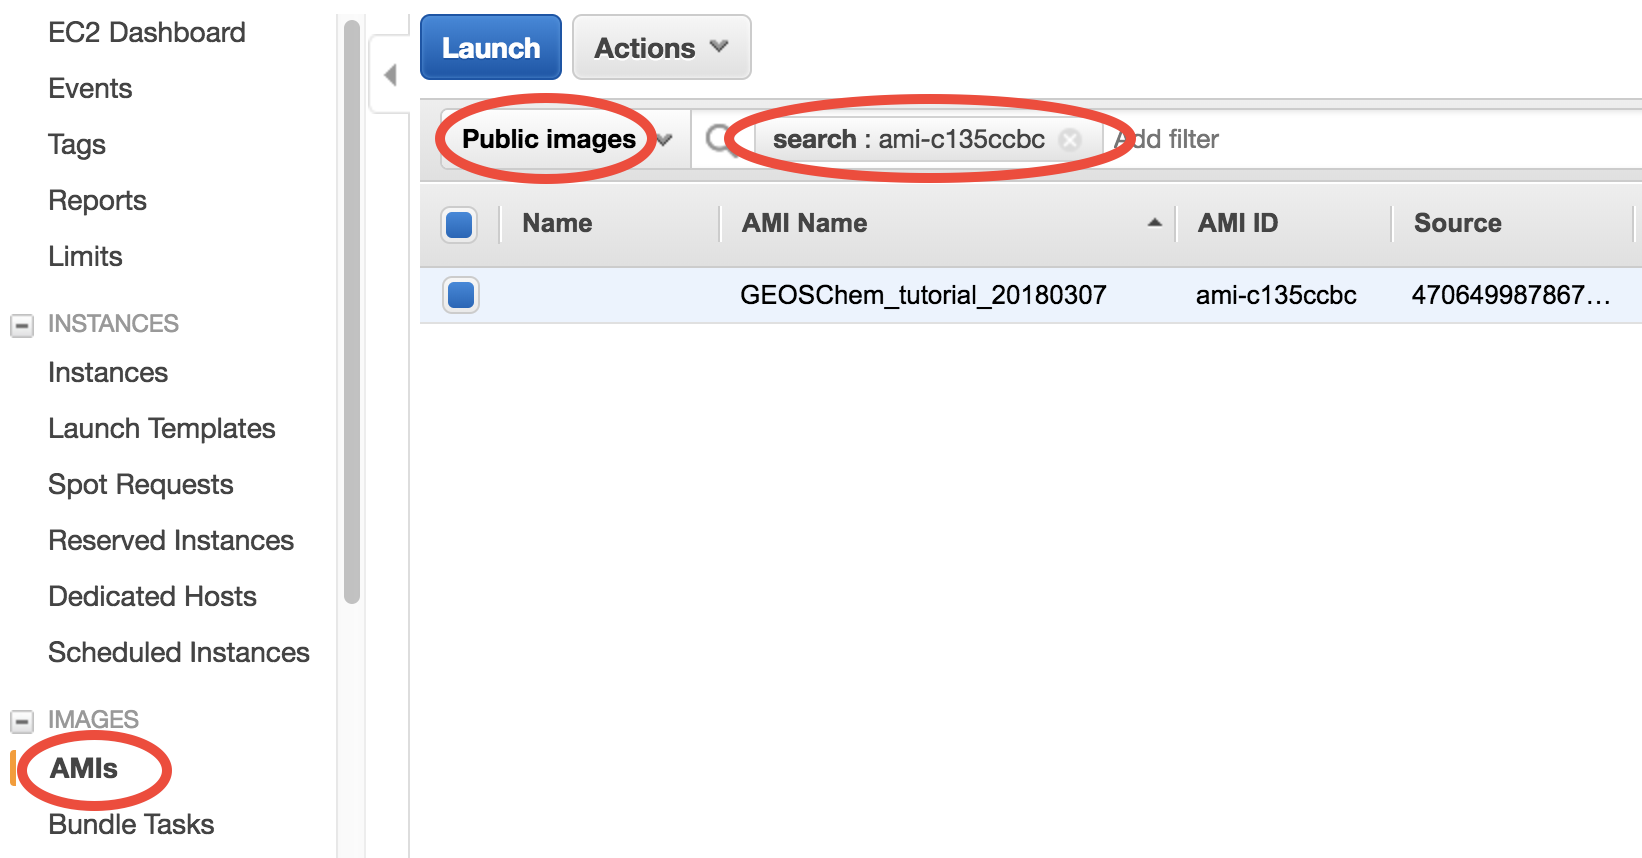
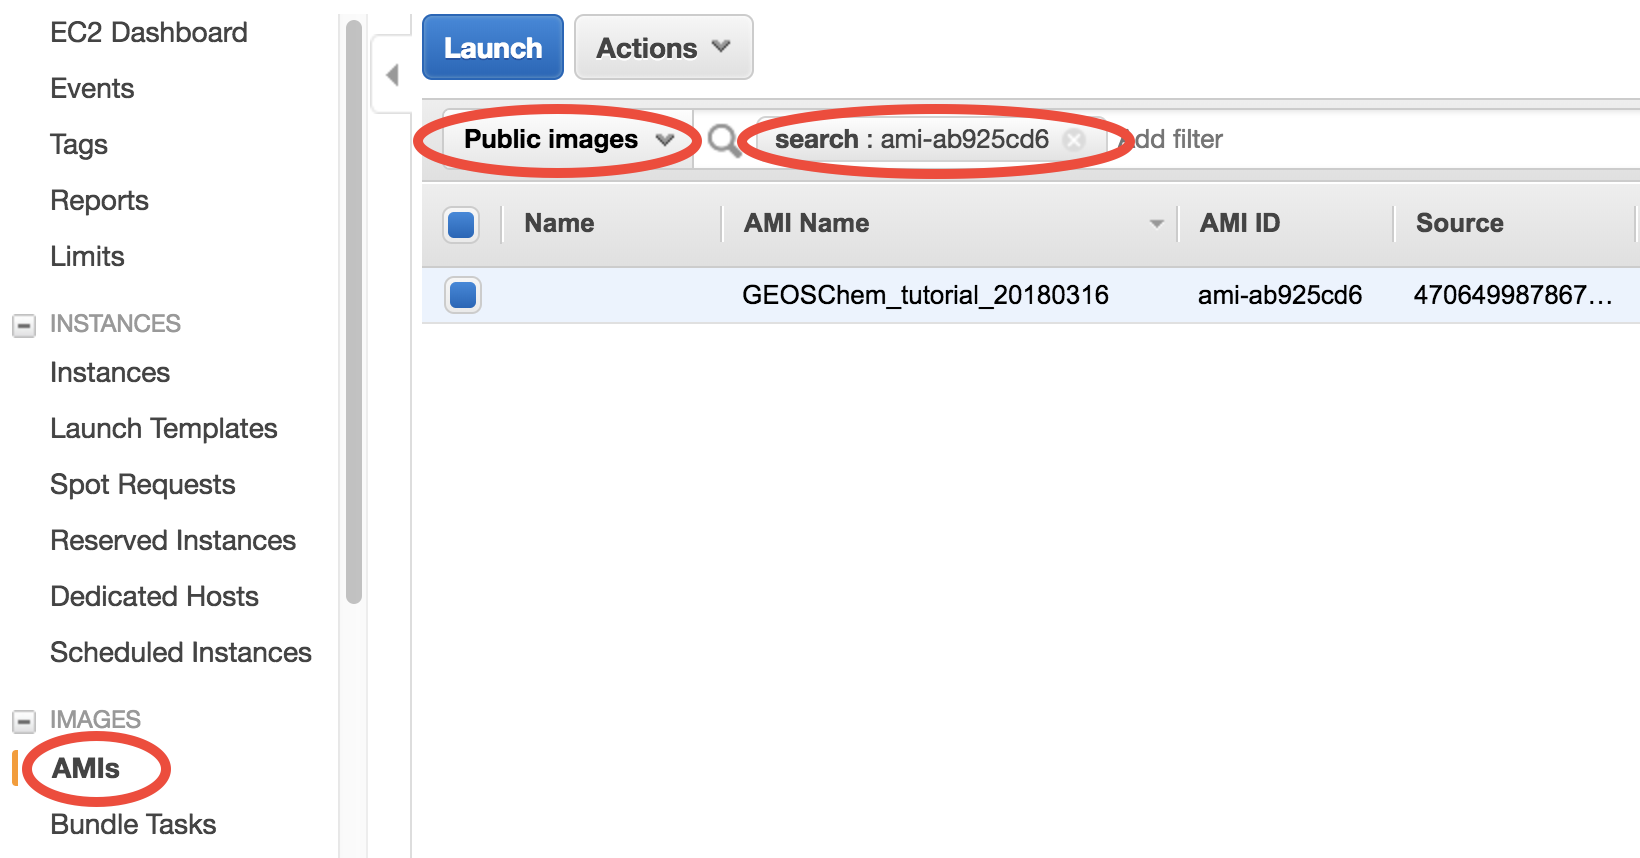
Major update for public release.
1. Update tutorial AMI
- use tutorial folder
- update Python env to fix bpch error
- add emacs editor
2. Add more s3 cp scripts
3. Add GEOS-Chem version note
4. Add xboch and xesmf note

diff --git a/doc/source/chapter02_beginner-tutorial/quick-start.rst b/doc/source/chapter02_beginner-tutorial/quick-start.rst
@@ -33,7 +33,7 @@ In the EC2 console, make sure you are in the **US East (N. Virginia)** region as
 .. figure:: img/region_list.png
   :width: 300 px
 
-In the EC2 console, click on "AMI" (Amazon Machine Image) under "IMAGES" on the left navigation bar. Then select "Public images" and search for **ami-c135ccbc** or **GEOSChem_tutorial_20180307** – that's the system with GEOS-Chem installed. Select it and click on "Launch".
+In the EC2 console, click on "AMI" (Amazon Machine Image) under "IMAGES" on the left navigation bar. Then select "Public images" and search for **ami-ab925cd6** or **GEOSChem_tutorial_20180316** – that's the system with GEOS-Chem installed. Select it and click on "Launch".
 
 .. figure:: img/search_ami.png
 
@@ -94,7 +94,7 @@ That's a system with GEOS-Chem already built!
 
 Go to the pre-generated run directory::
   
-  $ cd geosfp_4x5_standard
+  $ cd ~/tutorial/geosfp_4x5_standard
 
 Just run the pre-compiled the model by::
   
@@ -102,7 +102,7 @@ Just run the pre-compiled the model by::
 
 Or you can re-compile the model on your own::
 
-  $ make clean
+  $ make realclean
   $ make -j4 mpbuild NC_DIAG=y BPCH_DIAG=n TIMERS=1
 
 Congratulations! You’ve just done a GEOS-Chem simulation on the cloud, without spending any time on setting up your own server, configuring software environment, and preparing model input data!
@@ -112,12 +112,14 @@ The default simulation length is only 20 minutes, for demonstration purpose. The
 .. note::
   The first simulation on a new server will have slow I/O and library loading because the disk needs "warm-up". Subsequent simulations will be much faster.
 
+Note that this system is a **general environment** for GEOS-Chem, **not just a specific version of the model**. This pre-configured run directory in the "tutorial" folder is only for demonstration purpose. It uses `v11-02d <http://wiki.seas.harvard.edu/geos-chem/index.php/GEOS-Chem_v11-02#v11-02d>`_, which might not be the version you want for a serious scientific analysis. You can easily :doc:`switch to other versions <../chapter06_appendix/gc-version>`.
+
 Step 4: Analyze output data with Python (Optional)
 --------------------------------------------------
 
-If you wait for the simulation to finish (takes 5~10 min), it will produce `NetCDF diagnostics <http://wiki.seas.harvard.edu/geos-chem/index.php/List_of_diagnostics_archived_to_netCDF_format>`_ called ``GEOSChem.inst.20130701.nc4``. There is also a pre-generated ``GEOSChem.inst.20130701_backup.nc4`` ready for you to analyze::
+If you wait for the simulation to finish (takes 5~10 min), it will produce `NetCDF diagnostics <http://wiki.seas.harvard.edu/geos-chem/index.php/List_of_diagnostics_archived_to_netCDF_format>`_ called ``GEOSChem.inst.20130701.nc4``. There is also a pre-generated ``GEOSChem.inst.20130701_backup.nc4`` in the run directory, ready for you to analyze::
 
-  ubuntu@ip-172-31-36-170:~/geosfp_4x5_standard$ ncdump -h GEOSChem.inst.20130701_backup.nc4
+  $ ncdump -h GEOSChem.inst.20130701_backup.nc4
   netcdf GEOSChem.inst.20130701_backup {
   dimensions:
   	time = UNLIMITED ; // (1 currently)
@@ -133,9 +135,12 @@ If you wait for the simulation to finish (takes 5~10 min), it will produce `NetC
   		time:axis = "T" ;
 
 `Anaconda Python <https://www.anaconda.com/>`_ and `xarray <http://xarray.pydata.org>`_ are already installed on the server for analyzing all kinds of NetCDF files. If you are not familiar with Python and xarray, checkout my tutorial on 
-`xarray for GEOS-Chem <http://gcpy-demo.readthedocs.io>`_. You can simply use ``ipython`` from the command line::
-  
-  ubuntu@ip-172-31-36-170:~/geosfp_4x5_standard$ ipython
+`xarray for GEOS-Chem <http://gcpy-demo.readthedocs.io>`_. 
+
+Activate the pre-installed `geoscientific Python environment <https://github.com/JiaweiZhuang/cloud_GC/blob/master/build_scripts/python/geo.yml>`_ by ``source activate geo`` (it is generally a bad idea to directly install things into the root Python environment), and then start ``ipython`` from the command line::
+
+  $ source activate geo  # I also set a `act geo` alias
+  $ ipython
   Python 3.6.4 |Anaconda, Inc.| (default, Jan 16 2018, 18:10:19)
   Type 'copyright', 'credits' or 'license' for more information
   IPython 6.2.1 -- An enhanced Interactive Python. Type '?' for help.
@@ -163,7 +168,7 @@ To use Jupyter on remote servers, re-login to the server with port-forwarding op
   
 Then simply run ``jupyter notebook --NotebookApp.token='' --no-browser --port=8999``::
 
-  ubuntu@ip-172-31-36-170:~$ jupyter notebook --NotebookApp.token='' --no-browser --port=8999
+  $ jupyter notebook --NotebookApp.token='' --no-browser --port=8999
   [I 21:11:41.503 NotebookApp] Writing notebook server cookie secret to /run/user/1000/jupyter/notebook_cookie_secret
   [W 21:11:41.986 NotebookApp] All authentication is disabled.  Anyone who can connect to this server will be able to run code.
   [I 21:11:42.046 NotebookApp] Serving notebooks from local directory: /home/ubuntu
@@ -172,10 +177,20 @@ Then simply run ``jupyter notebook --NotebookApp.token='' --no-browser --port=89
   [I 21:11:42.046 NotebookApp] http://localhost:8999/
   [I 21:11:42.046 NotebookApp] Use Control-C to stop this server and shut down all kernels (twice to skip confirmation).
 
-Visit ``http://localhost:8999/`` in your browser, you should see a Jupyter environment just like on local machines. The server contains an :doc:`example notebook <../chapter06_appendix/sample-python-code>` ``python_example/plot_GC_data.ipynb`` that you can just execute. You can also use Jupyter as a graphical text editor on remote servers. Jupyter also allows you to download/upload data without using ``scp``.
+Visit ``http://localhost:8999/`` in your browser, you should see a Jupyter environment just like on local machines. The server contains an :doc:`example notebook <../chapter06_appendix/sample-python-code>` that you can just execute. It is located at::
+
+  ~/tutorial/python_example/plot_GC_data.ipynb
+
+Besides being a data analysis environment, Jupyter can also be used as a graphical text editor on remote servers so you don't have to use ``vim``/``emacs``/``nano``. The Jupyter console also allows you to download/upload data without using ``scp``.
 
 .. note::
-  There are many ways to use Jupyter on remote servers. Port-forwarding is the easiest way, and is the only way that also works on local HPC clusters (which has much stricter firewalls than cloud platforms). The port number 8999 is just my random choice, to distinguish from the default port number 8888 for local Jupyter. You can use whatever number you like as long as it doesn't conflict with `existing port numbers <https://en.wikipedia.org/wiki/Port_(computer_networking)#Common_port_numbers>`_.
+  There are many ways to connect to Jupyter on remote servers. Port-forwarding is the easiest way, and is the only way that also works on local HPC clusters (which has much stricter firewalls than cloud platforms). The port number 8999 is just my random choice, to distinguish from the default port number 8888 for local Jupyter. You can use whatever number you like as long as it doesn't conflict with `existing port numbers <https://en.wikipedia.org/wiki/Port_(computer_networking)#Common_port_numbers>`_.
+
+We encourage users to try the new NetCDF diagnostics, but you can still use the old BPCH diagnostics if you want to. Just compile with ``NC_DIAG=n BPCH_DIAG=y`` instead. The Python package `xbpch <http://xbpch.readthedocs.io>`_ can read BPCH data into xarray format, so you can use very similar code for NetCDF and BPCH output. xbpch is also pre-installed in the ``geo`` environment. 
+
+My `xESMF <http://xesmf.readthedocs.io>`_ package is also pre-installed on the server, which can fulfill all horizontal regridding needs for GEOS-Chem data (and most of Earth science data). It should be much easier to use and orders of magnitude faster than the regridding routines in IDL/gamap.
+
+Also, nothing prevents you from downloading the output data and using old tools like IDL & MATLAB to analyze them, but we highly encourage you to switch to the open-source Python/Jupyter/xarray ecosystem. It will vastly improve user experience and working efficiency, and also help open science and reproducible research.
 
 Step 5: Shut down the server (Very important!!) 
 -----------------------------------------------

diff --git a/doc/source/chapter02_beginner-tutorial/use-s3.rst b/doc/source/chapter02_beginner-tutorial/use-s3.rst
@@ -103,7 +103,7 @@ You can explore sub-directories by, for example::
   $ aws s3 ls s3://nasanex/NEX-GDDP/BCSD/rcp85/day/atmos/tasmax/r1i1p1/v1.0/
   
 Or just get down to one of the the lowest level folders ::
-  
+
   $ aws s3 ls --summarize --human-readable s3://nasanex/NEX-GDDP/BCSD/rcp85/day/atmos/tasmax/r1i1p1/v1.0/
   ...
   2015-09-25 21:07:06    8.3 KiB tasmax_day_BCSD_rcp85_r1i1p1_inmcm4_2099.json
@@ -115,7 +115,7 @@ Or just get down to one of the the lowest level folders ::
      Total Size: 1.4 TiB
 
 The ``--summarize --human-readable`` options print the total size in human-readable formats (like the normal Linux command ``du -sh``) As you see, that subfolder has 1.4 TB of data. Just get one file to play with::
-  
+
   $ aws s3 cp s3://nasanex/NEX-GDDP/BCSD/rcp85/day/atmos/tasmax/r1i1p1/v1.0/tasmax_day_BCSD_rcp85_r1i1p1_inmcm4_2100.nc ./
   download: s3://nasanex/NEX-GDDP/BCSD/rcp85/day/atmos/tasmax/r1i1p1/v1.0/tasmax_day_BCSD_rcp85_r1i1p1_inmcm4_2100.nc to ./tasmax_day_BCSD_rcp85_r1i1p1_inmcm4_2100.nc
 
@@ -141,16 +141,12 @@ Here's an :doc:`example notebook <../chapter06_appendix/plot_NASANEX>` to plot t
 
 Congrats! You know how to access and analyze public datasets on AWS. Accessing GEOS-Chem's input data repository will be exactly the same.
 
-.. note::
-  
-  Get tired of lengthy S3 commands? The `s3fs-fuse <https://github.com/s3fs-fuse/s3fs-fuse>`_ tool can make S3 buckets and objects behave just like normal directories and files on disk. We will mention it in advanced tutorials.
-
 .. _gcdata-bucket-label:
 
 Access GEOS-Chem input data repository in S3
 --------------------------------------------
 
-::
+List out bucket by::
   
   $ aws s3 ls --request-payer=requester s3://gcgrid/
                              PRE BPCH_RESTARTS/
@@ -172,4 +168,44 @@ Access GEOS-Chem input data repository in S3
   
 GEOS-Chem input data bucket uses `requester-pay mode <https://docs.aws.amazon.com/AmazonS3/latest/dev/RequesterPaysBuckets.html>`_. Transferring data from S3 to EC2 (in the same region) has no cost. But you do need to pay for the :ref:`egress fee <data-egress-label>` it you download data to local machines.
 
-The tutorial AMI only has 1-month GEOS-FP metfield. You can get other metfields from that S3 bucket, to support simulations with any configurations.
+The tutorial AMI only has 4x5 GEOS-FP metfield for 1-month (2013/07). You can get other metfields from that S3 bucket, to support simulations with any configurations.
+
+For example, download the 4x5 GEOS-FP data over the next month (2013/08)
+
+::
+  
+  $ aws s3 cp --request-payer=requester --recursive \
+    s3://gcgrid/GEOS_4x5/GEOS_FP/2013/08/ \
+    ~/gcdata/ExtData/GEOS_4x5/GEOS_FP/2013/08/
+
+  download: s3://gcgrid/GEOS_4x5/GEOS_FP/2013/08/GEOSFP.20130801.A1.4x5.nc to gcdata/ExtData/GEOS_4x5/GEOS_FP/2013/08/GEOSFP.20130801.A1.4x5.nc
+  download: s3://gcgrid/GEOS_4x5/GEOS_FP/2013/08/GEOSFP.20130801.A3mstC.4x5.nc to gcdata/ExtData/GEOS_4x5/GEOS_FP/2013/08/GEOSFP.20130801.A3mstC.4x5.nc
+  ...
+
+Downloading this ~2.5 GB data should just take 10~20s.
+
+To download more months (but not the entire year), consider simple bash "for" loop::
+
+  for month in 09 10
+  do
+  aws s3 cp --request-payer=requester --recursive \
+    s3://gcgrid/GEOS_4x5/GEOS_FP/2013/$month \
+    ~/gcdata/ExtData/GEOS_4x5/GEOS_FP/2013/$month
+  done
+
+`Wildcards are also supported <https://docs.aws.amazon.com/cli/latest/reference/s3/#use-of-exclude-and-include-filters>`_, but it feels pretty different from common Linux wildcards. I often find writing bash scripts a lot quicker. 
+
+Then you may want to change the simulation date in ``input.geo`` to test the new data. For example, change to next month::
+
+  Start YYYYMMDD, hhmmss  : 20130801 000000
+  End   YYYYMMDD, hhmmss  : 20130901 000000
+  Run directory           : ./
+  Input restart file      : GEOSChem_restart.201307010000.nc
+
+(Note that the restart file is still at 2013/07 in this case.)
+
+The EC2 instance launched from the tutorial AMI only has 70 GB disk by default, so the disk will be full very soon. You will learn how to increase the disk size, right in the next tutorial.
+
+.. note::
+
+  Get tired of lengthy S3 commands? The `s3fs-fuse <https://github.com/s3fs-fuse/s3fs-fuse>`_ tool can make S3 buckets and objects behave just like normal directories and files on disk. However, it doesn't work well with requester-pay buckets yet (`issue#635 <https://github.com/s3fs-fuse/s3fs-fuse/issues/635>`_). If that issue is resolved we will add more instructions. 

diff --git a/doc/source/chapter06_appendix/gc-version.rst b/doc/source/chapter06_appendix/gc-version.rst
@@ -1,0 +1,85 @@
+Set up proper GEOS-Chem version
+-------------------------------
+
+Our tutorial AMI uses `v11-02d <http://wiki.seas.harvard.edu/geos-chem/index.php/GEOS-Chem_v11-02#v11-02d>`_ as a demo but it is very easy to switch to a different version you want. No need to touch environment variables and library configurations. Any versions newer than `v11-02a <http://wiki.seas.harvard.edu/geos-chem/index.php/GEOS-Chem_v11-02#v11-02a>`_ should work smoothly. The system will still work with future releases of GEOS-Chem (e.g. v11-02 formal release), unless there are big structural changes that break the compile process.
+
+I just put essential steps here for reference. Existing GEOS-Chem users should feel quite familiar. New users should refer to our `user guide <http://acmg.seas.harvard.edu/geos/doc/man/>`_ for the full instruction.
+
+Get source code and checkout model version
+^^^^^^^^^^^^^^^^^^^^^^^^^^^^^^^^^^^^^^^^^^
+
+For now I use the "bleeding edge" repository::
+
+  git clone https://bitbucket.org/gcst/gc_bleeding_edge.git
+  git clone https://bitbucket.org/gcst/ut_bleeding_edge.git
+
+After v11-02 formal release, you might want to clone from the main repository::
+
+  git clone https://bitbucket.org/gcst/geos-chem.git
+  git clone https://bitbucket.org/gcst/geos-chem-unittest.git
+
+You may list all sub-versions (git tags) in chronological order::
+
+  $ git log --tags --simplify-by-decoration --pretty="format:%ci %d"
+  2018-01-25 09:58:33 -0500  (tag: v11-02d-Run2, origin/master, origin/HEAD, master)
+  2017-12-21 16:53:01 -0500  (tag: v11-02d-Run1)
+  2017-12-06 18:07:17 -0500  (tag: v11-02d-prelim)
+  2017-12-01 14:48:35 -0500  (tag: v11-02d-Run0)
+  2017-09-11 15:50:37 -0400  (tag: v11-02c)
+  ...
+
+If needed, checkout to a different version, say ``v11-02c``::
+
+  $ git checkout v11-02c
+  HEAD is now at 2b07df6... Avoid array out-of-bounds error in EMISSCARBON when complex SOA is off
+  $ git branch
+  * (HEAD detached at v11-02c)
+
+You need to do version checkout for both source code and unit tester.
+
+Configure unit tester and generate run directory
+^^^^^^^^^^^^^^^^^^^^^^^^^^^^^^^^^^^^^^^^^^^^^^^^
+
+Here's how I set up the tutorial run directory, for reference.
+
+In ``ut_bleeding_edge/CopyRunDirs.input``, change the default paths::
+
+  GCGRID_ROOT    : /n/holylfs/EXTERNAL_REPOS/GEOS-CHEM/gcgrid
+  DATA_ROOT      : {GCGRIDROOT}/data/ExtData
+  ...
+  UNIT_TEST_ROOT : {HOME}/UT
+  ...
+  COPY_PATH      : {HOME}/GC/rundirs
+
+to::
+
+  GCGRID_ROOT    : /home/ubuntu/gcdata
+  DATA_ROOT      : {GCGRIDROOT}/ExtData
+  ...
+  UNIT_TEST_ROOT : {HOME}/tutorial/ut_bleeding_edge
+  ...
+  COPY_PATH      : {HOME}/tutorial
+
+Then uncomment the run directory I want::
+
+  geosfp   4x5         -      standard         2013070100   2013080100     -
+  
+In ``ut_bleeding_edge/Makefile``, change the source code path::
+
+    CODE_DIR    :=$(HOME)/GC/Code.$(VERSION)
+
+to::
+
+    CODE_DIR    :=$(HOME)/tutorial/gc_bleeding_edge
+
+Running ``git status -v`` inside ``~/tutorial/ut_bleeding_edge`` will display all those modifications. 
+
+Finally, generate the run directory::
+
+  $ ./gcCopyRunDirs
+
+Go to the run directory and compile::
+
+  $ make -j4 mpbuild NC_DIAG=y BPCH_DIAG=n TIMERS=1
+
+Note that you almost have to execute ``make`` command **in the run directory**. This will ensure the correct combination of compile flags for this specific run configuration. GEOS-Chem's compile flags have become so complicated that you will almost never get the right compile settings by compiling in the source code directory. See `our wiki <http://wiki.seas.harvard.edu/geos-chem/index.php/GEOS-Chem_Makefile_Structure#Compiling_in_a_run_directory>`_ for more information.

diff --git a/doc/source/index.rst b/doc/source/index.rst
@@ -13,7 +13,7 @@ This project is supported by the AWS Public Data Set Program and the NASA Atmosp
 How to use this documentation
 -----------------------------
 
-**For GEOS-Chem users**, this website contains everything you need in order to use GEOS-Chem on the cloud. You will be able to finish a complete research workflow, from model simulations to output data analysis and management. **If it is your first time trying GEOS-Chem, this project is perhaps your best starting point**, because :ref:`you don't need to do any initial setup <motivation-label>` and the model is guaranteed to work correctly (see :ref:`quick start guide <quick-start-label>`). Note that this website is not a user guide on the GEOS-Chem model itself. Please refer to our comprehensive `user guide <http://acmg.seas.harvard.edu/geos/doc/man/>`_ and `wiki <http://wiki.seas.harvard.edu/geos-chem/index.php/Main_Page>`_ for all details about GEOS-Chem. To run on the cloud, we only support GEOS-Chem `v11-02 <http://wiki.seas.harvard.edu/geos-chem/index.php/GEOS-Chem_v11-02>`_ or future versions for `GNU-Fortran compatibility <http://wiki.seas.harvard.edu/geos-chem/index.php/GNU_Fortran_compiler>`_ and `NetCDF diagnostics updates <http://wiki.seas.harvard.edu/geos-chem/index.php/List_of_diagnostics_archived_to_netCDF_format>`_.
+**For GEOS-Chem users**, this website contains everything you need in order to use GEOS-Chem on the cloud. You will be able to finish a complete research workflow, from model simulations to output data analysis and management. **If it is your first time trying GEOS-Chem, this project is perhaps your best starting point**, because :ref:`you don't need to do any initial setup <motivation-label>` and the model is guaranteed to work correctly (see :ref:`quick start guide <quick-start-label>`). Note that this website is not a user guide on the GEOS-Chem model itself. Please refer to our comprehensive `user guide <http://acmg.seas.harvard.edu/geos/doc/man/>`_ and `wiki <http://wiki.seas.harvard.edu/geos-chem/index.php/Main_Page>`_ for all details about GEOS-Chem. To run on the cloud, we only support versions newer than `v11-02a <http://wiki.seas.harvard.edu/geos-chem/index.php/GEOS-Chem_v11-02#v11-02a>`_ for `GNU-Fortran compatibility <http://wiki.seas.harvard.edu/geos-chem/index.php/GNU_Fortran_compiler>`_.
 
 **For non-GEOS-Chem-users**, this documentation can be used as an introduction to AWS for scientific computing, especially for **Earth science model simulations**. Since all Earth science models are highly similar from a software perspective, it should be quite easy to adapt this guide for you specific use case. More than 90% of this website is about general AWS concepts and tutorials, which doesn't require GEOS-Chem-specific knowledge. Please get a feeling of cloud computing workflow by exploring :doc:`beginner tutorials <../chapter02_beginner-tutorial/index>` and then refer to the :doc:`developer guide <../chapter04_developer-guide/index>` to build your own model. Although cloud computing has a lot of potential in Earth science, it is still significantly under-utilized due to :doc:`the lack of accessible tutorials <./chapter01_overview/external-resources>` for Earth science researchers. This project tries to fill this gap.
 

diff --git a/doc/source/chapter02_beginner-tutorial/research-workflow.rst b/doc/source/chapter02_beginner-tutorial/research-workflow.rst
@@ -13,7 +13,7 @@ Here's my typical research workflow for reference:
 2. Prepare input data by pulling them from S3 to EC2. Put commonly used ``aws s3 cp`` commands into bash scripts.
 3. Tweak model configurations as needed.
 4. Run simulations :ref:`with tmux <keep-running-label>`. Log out and go to sleep if the model runs for a long time.
-5. Use Python/Jupyter to analyze output data. Our tutorial AMI contains a `geoscientific Python environment <https://github.com/JiaweiZhuang/cloud_GC/blob/master/build_scripts/python/geo.yml>`_ that has much more packages than the `root environment <https://github.com/JiaweiZhuang/cloud_GC/blob/master/build_scripts/python/basic_packages.sh>`_. It can be activated by ``source activate geo``, or ``act geo`` with my alias.
+5. Use Python/Jupyter to analyze output data.
 6. After simulation and data analysis tasks are done, upload output data and customized model configuration (mostly run directories) to S3. Or download them to local machines if necessary (Recall that :ref:`egress charge <data-egress-label>` is $90/TB; for several GBs the cost is negligible).
 7. Once important data safely live on S3 or on your local machine, shut down EC2 instances to stop paying for CPU charges.
 8. Go to write papers, attend meetings, do anything other than computing. During this time, no machines are running on the cloud, and the only cost is data storage on S3 ($23/TB/month). Consider `S3 - Infrequent Access <https://aws.amazon.com/blogs/aws/aws-storage-update-new-lower-cost-s3-storage-option-glacier-price-reduction/>`_ which costs half if the data will not be used for several months.

diff --git a/doc/source/chapter06_appendix/aws-resources-for-gc.rst b/doc/source/chapter06_appendix/aws-resources-for-gc.rst
@@ -6,7 +6,7 @@ Currently all resources are in us-east-1 (N. Virginia).
 +-------------------+------------------------+----------+----------------------------------+
 | Resource          | ID/name                | Size     | Content                          |
 +===================+========================+==========+==================================+
-|| Tutorial AMI     | ami-c135ccbc           | 70 GB    |                                  |
+|| Tutorial AMI     | ami-ab925cd6           | 70 GB    |                                  |
 |                   |                        |          | 1. gfortran 5.4.0,               | 
 |                   |                        |          |    netCDF-Fortran 4.4.3          |
 |                   |                        |          | 2. GC environment variables      |

diff --git a/doc/source/chapter06_appendix/index.rst b/doc/source/chapter06_appendix/index.rst
@@ -7,6 +7,7 @@ This chapter provides additional resources that don't fit into the main tutorial
    :maxdepth: 2
 
    aws-resources-for-gc
+   gc-version
    ssh-config
    keep-running
    sample-python-code
